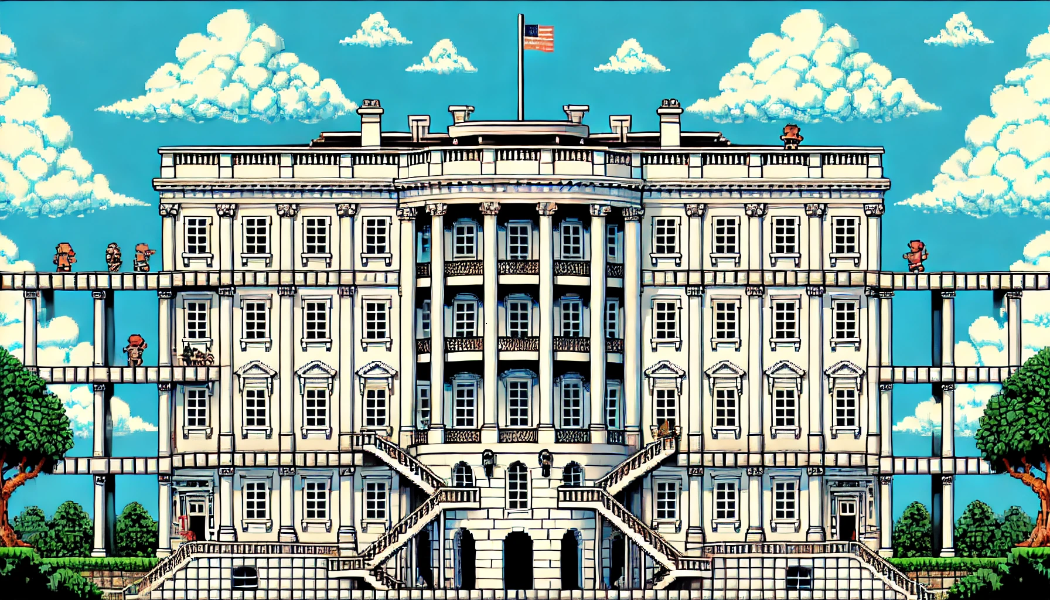
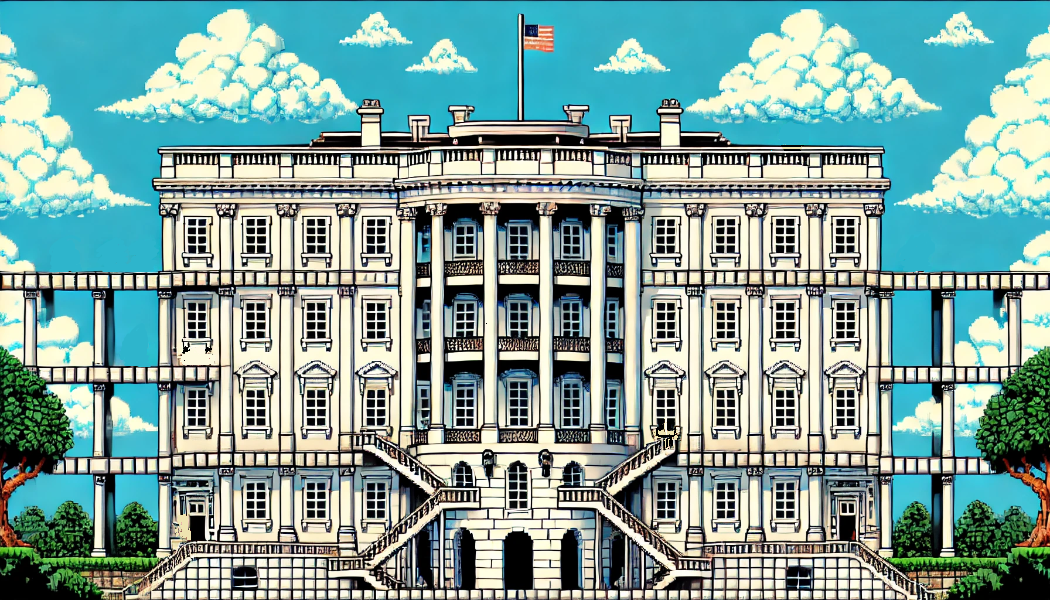
parfait

diff --git a/src/js/selection.js b/src/js/selection.js
@@ -43,7 +43,8 @@ export default class selection extends Phaser.Scene {
     });
     this.load.image("img_maison_b", "src/assets/maison_blanche.png")
     this.load.image("img_trump_menu", "src/assets/trump menu.png")
-    this.load.image("img_agent", "src/assets/agent100.png")
+    this.load.image("img_agent_g", "src/assets/agent_g.png")
+    this.load.image("img_agent_d", "src/assets/agent_d.png")
     this.load.image("img_fond_menu", "src/assets/fond_menu.png")
     this.load.image("img_play", "src/assets/porte.transparente.png")
     this.load.image("img_porte1", "src/assets/door1.png");

diff --git a/src/js/niveau1.js b/src/js/niveau1.js
@@ -65,6 +65,11 @@ export default class niveau1 extends Phaser.Scene {
     this.physics.add.collider(this.player, this.groupe_plateformes);
     fct.startCountdown(this);
 
+    this.add.image(100, 245, "img_agent_d"); 
+    this.add.image(600, 245, "img_agent_g"); 
+    this.add.image(50, 335, "img_agent_d"); 
+    this.add.image(700, 435, "img_agent_g"); 
+
   }
 
   update() {
